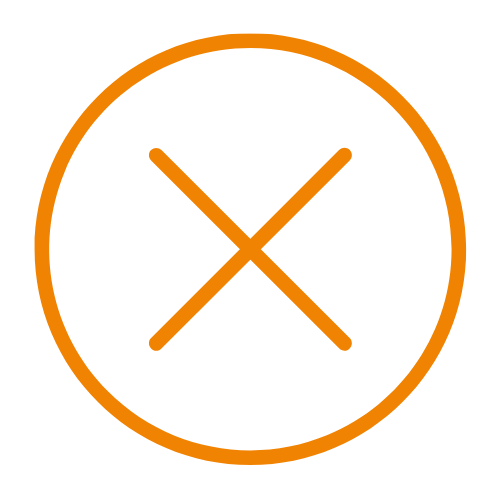
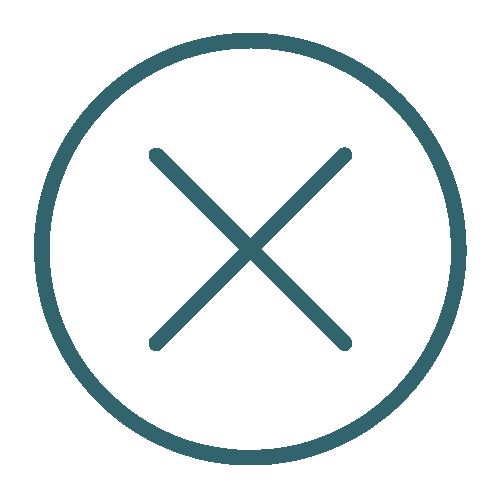
frontend changes

Changed region(s): [[0.06, 0.06, 0.96, 0.93], [0.3, 0.3, 0.72, 0.72]]

diff --git a/Components/Friend/Chat/Chat.jsx b/Components/Friend/Chat/Chat.jsx
@@ -7,7 +7,7 @@ import images from "../../../assets";
 import {converTime} from "../../../Utils/apiFeature";
 import {Loader} from "../../index";
 
-//import { EmojiButton } from '@joeattardi/emoji-button';
+import InputEmoji from "react-input-emoji";
 
 const Chat = ({
   functionName, 
@@ -21,7 +21,9 @@ const Chat = ({
   readUser,
 }) => {
 
+
   const [message, setMessage] = useState('');
+  const [text, setText] = useState(""); 
   const [chatData, setChatData] = useState({
     name: "",
     address: "",
@@ -41,6 +43,12 @@ const Chat = ({
     }
   },[])
   // console.log(chatData.address, chatData.name);
+
+  const handleInputChange = (e) => {
+    const newValue = e;
+    setMessage(newValue);
+
+  };
   return (
     <div className={Style.Chat}>
       {currentUserName && currentUserAddress ? (
@@ -105,17 +113,25 @@ const Chat = ({
         {currentUserName && currentUserAddress ? (
           <div className={Style.Chat_box_send}>
             <div className={Style.Chat_box_send_img}>
-              <Image src={images.smile} alt="smile"
+              {/* <Image src={images.smile} alt="smile"
                 width={50}
                 height={50}
-                />
-              <input type='text' placeholder="type your message" 
+                /> */}
+              <InputEmoji  
+                value={message} 
+                onChange={handleInputChange}
+                cleanOnEnter 
+                placeholder="Type a message"
+              /> 
+              {/* <input type='text' placeholder="type your message" 
               onChange={(e)=>setMessage(e.target.value)}
-              />
+              /> */}
               <Image src={images.file}
                 alt="file"
                 width={50}
-                height={50}/>
+                height={50}
+                />
+
                 {
                   loading == true ? (
                     <Loader/>

diff --git a/Components/Filter/Filter.jsx b/Components/Filter/Filter.jsx
@@ -16,12 +16,12 @@ const Filter = () => {
     <div className={Style.Filter}>
       <div className={Style.Filter_box}>
         <div className={Style.Filter_box_left}>
-          <div className={Style.Filter_box_left_search}>
+          {/* <div className={Style.Filter_box_left_search}>
             <Image src={images.search} alt="image" width={20} height={20}/>
             <input type="text" placeholder="search..."/>
-          </div>
+          </div> */}
         </div>
-        <div className={Style.Filter_box_right}>
+        {/* <div className={Style.Filter_box_right}>
           <button>
             <Image src={images.clear}
               alt="clear"
@@ -30,15 +30,7 @@ const Filter = () => {
             />
             CLEAR CHAT
           </button>
-          <button onClick={()=>setAddFriend(true)}>
-            <Image src={images.user}
-              alt="clear"
-              width={20}
-              height={20}
-            />
-            ADD FRIEND
-          </button>
-        </div>
+        </div> */}
       </div>
       {/* //MODEL COMPONENT */}
       {addFriend && (

diff --git a/Components/NavBar/NavBar.module.css b/Components/NavBar/NavBar.module.css
@@ -27,8 +27,8 @@
 }
 
 .active_btn{
-    color: #F18303;
-    border-bottom: 2px solid #F18303;
+    color: rgb(120, 198, 207);
+    border-bottom: 2px solid rgb(120, 198, 207);
     padding-bottom: .4rem;
 }
 
@@ -43,7 +43,7 @@
     border: none;
     border-radius: .5rem;
     font-size: 1.1rem;
-    color: #F18303;
+    color: rgb(120, 198, 207);
     font-weight: 700;
     cursor: pointer;
 
@@ -68,7 +68,7 @@
 .modelBox{
     position: fixed;
     inset: 0 0 0 0;
-    background-color: #292F3F;
+    background-color: #32646d;
     z-index: 77777777;
 }
 
@@ -95,7 +95,7 @@
     .NavBar_box_right_menu{
         position: fixed;
         z-index: 111111;
-        background-color: #292F3F;
+        background-color: #142c30;
         width: 100%;
         flex-direction: column;
         height: 100vh;
@@ -108,7 +108,7 @@
         display: block;
         position: fixed;
         z-index: 1111111;
-        background-color: #292F3F;
+        background-color: #142c30;
         inset: 0 0 0 0;
         text-align: center;
         padding-top: 4rem;

diff --git a/Components/Model/Model.module.css b/Components/Model/Model.module.css
@@ -11,7 +11,7 @@
 
 .Model_box_right h1{
     font-size: 3rem;
-    color: #F18303;
+    color: rgb(120, 198, 207);
     line-height: .9;
 }
 
@@ -22,7 +22,7 @@
 
 .Model_box_right small{
     font-size: 1.2rem;
-    color: #F18303;
+    color: rgb(120, 198, 207);;
 }
 
 .Model_box_right_name_info{
@@ -41,7 +41,7 @@
     background-color: transparent;
     outline: none;
     border: none;
-    color: #F18303;
+    color: rgb(120, 198, 207);
 }
 
 .Model_box_right_name_btn{
@@ -53,7 +53,7 @@
 .Model_box_right_name_btn button{
     outline: none;
     border: none;
-    color: #F18303;
+    color: rgb(120, 198, 207);
     font-size: 1.2rem;
     font-weight: 700;
     text-transform: uppercase;

diff --git a/Components/Filter/Filter.module.css b/Components/Filter/Filter.module.css
@@ -17,7 +17,7 @@
     border-radius: 2rem;
     padding-inline: 1rem;
     background-color: rgba(0,0,0,0.25);
-    color: #F18303;
+    color: rgb(120, 198, 207);
 }
 
 .Filter_box_left_search input{
@@ -25,7 +25,7 @@
     outline: none;
     border: none;
     padding: 1rem;
-    color: #F18303;
+    color: rgb(120, 198, 207);
     width: 20rem;
 }
 
@@ -39,7 +39,7 @@
     outline: none;
     border: none;
     padding: 1rem 2rem;
-    color: #F18303;
+    color: rgb(120, 198, 207);
     border-radius: 2rem;
     font-weight: 700;
     display: flex;

diff --git a/Components/Friend/Chat/Chat.module.css b/Components/Friend/Chat/Chat.module.css
@@ -16,7 +16,7 @@
 }
 .Chat_box_right p,
 .Chat_box_left p{
-    background-color: #F182035B;
+    background-color: #32646d;
     padding: 1rem;
     border-top-right-radius: .5rem;
     border-top-left-radius: .5rem;
@@ -39,11 +39,11 @@
 
 .Chat_box_send_img input{
     width: 100%;
-    background-color: #F182035B;
+    background-color: #32646d;
     outline: none;
     border: none;
     padding: 1rem;
-    color: #F18203;
+    color: #d5f7ff;
     border-radius: .5rem;
 }
 

diff --git a/Components/Error/Error.module.css b/Components/Error/Error.module.css
@@ -9,9 +9,9 @@
     border-radius: 1rem;
     padding: 2rem;
     border-radius: 50px;
-    background: #F18303;
-    box-shadow: 5px 5px 10px #cd6f03,
-    -5px -5px 10px #ff9703
+    background: rgb(120, 198, 207);
+    box-shadow: 5px 5px 10px rgb(120, 198, 207),
+    -5px -5px 10px rgb(120, 198, 207)
 }
 
 @media only screen and (max-width: 35em){

diff --git a/Components/UserCard/UserCard.module.css b/Components/UserCard/UserCard.module.css
@@ -16,7 +16,7 @@
 
 .UserCard_box_info button{
     background-color: rgba(0,0,0, 0.25);
-    color: #F18303;
+    color: #32646d;
     width: 50%;
     padding: 1rem;
     border: none;
@@ -30,6 +30,6 @@
     right: 1rem;
     padding: 1rem 1.3rem;
     border-radius:50%;
-    background-color:#F18303;
+    background-color:#32646d;
     top:1rem;
 }

diff --git a/Components/NavBar/NavBar.jsx b/Components/NavBar/NavBar.jsx
@@ -19,22 +19,6 @@ const NavBar = () => {
       menu: "CHAT",
       link: "/",
     },
-    {
-      menu: "CONTACT",
-      link: "/",
-    },
-    {
-      menu: "SETTING",
-      link: "/",
-    },
-    {
-      menu: "FAQ",
-      link: "/",
-    },
-    {
-      menu: "TERMS OF USE",
-      link: "/",
-    },
   ];
 
   //USESTATE

diff --git a/styles/globals.css b/styles/globals.css
@@ -8,7 +8,7 @@ body {
 
     font-family: 'Nunito', sans-serif;
     font-family: 'Urbanist', sans-serif;
-    background-color: #292F3F;
+    background-color: rgb(60, 100, 105);
     color: #FFFFFF;
 
 }
